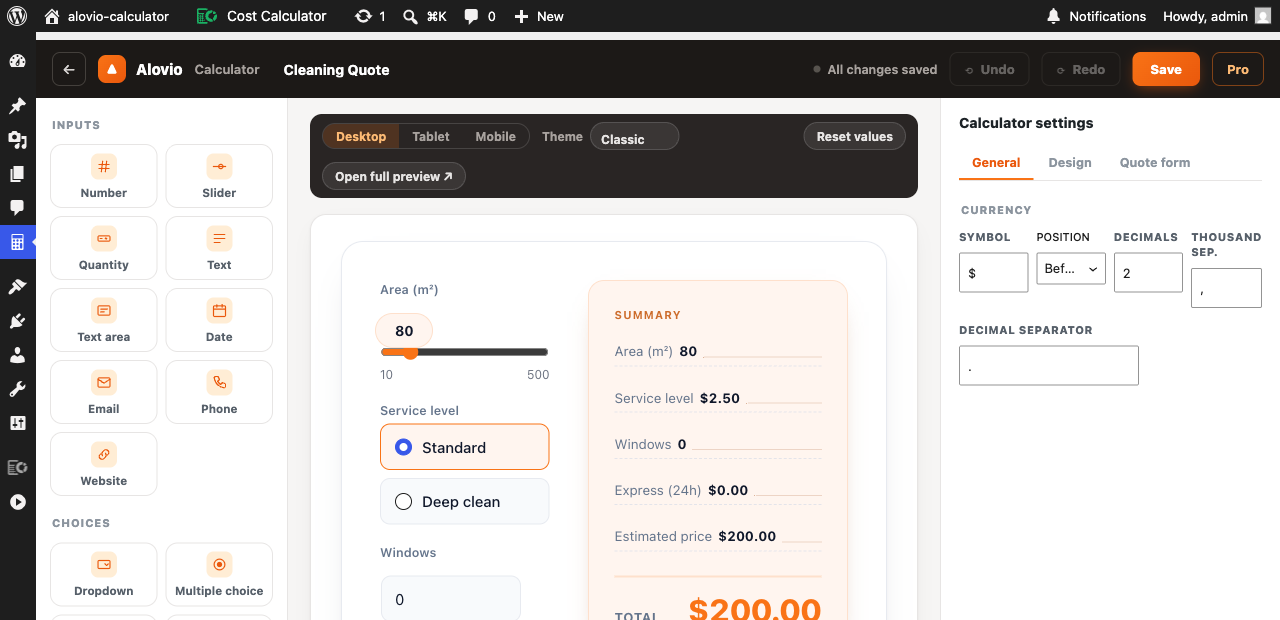
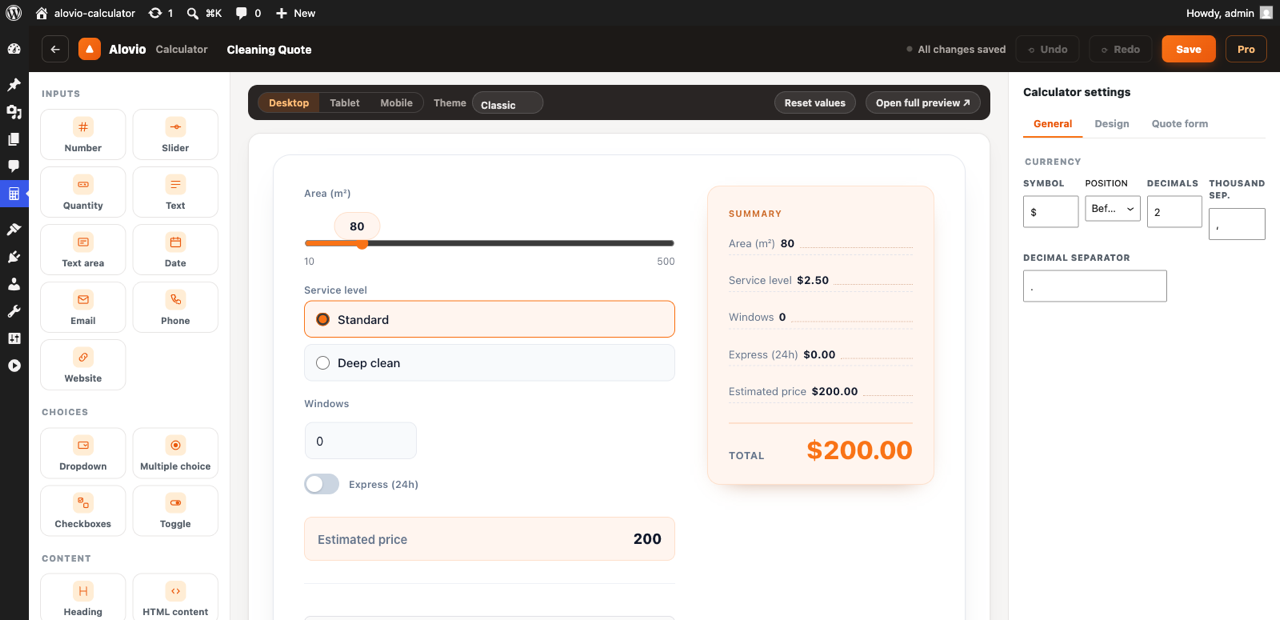
Canvas: restore native radio/checkbox appearance (wp-admin repainted them blue); re-shot screenshots 1/3

diff --git a/src/builder/builder.scss b/src/builder/builder.scss
@@ -161,7 +161,18 @@ body.alcb-builder-page #wpbody-content > .error { display: none; }
 }
 // Neutralise wp-admin form chrome inside the real fragment so it matches the site.
 .alcb-fragment select { max-width: none; min-height: 0; }
-.alcb-fragment input[type="checkbox"], .alcb-fragment input[type="radio"] { margin: 0; }
+.alcb-fragment input[type="checkbox"], .alcb-fragment input[type="radio"] {
+	margin: 0;
+	// wp-admin forms.css repaints these (appearance:none + blue :checked::before); restore the
+	// native controls the visitor sees, coloured by the calculator's own accent.
+	appearance: auto;
+	-webkit-appearance: auto;
+	border: 0; background: transparent; box-shadow: none;
+	inline-size: auto; block-size: auto;
+	accent-color: var(--alc-accent, #f97316);
+}
+.alcb-fragment input[type="checkbox"]:checked::before,
+.alcb-fragment input[type="radio"]:checked::before { content: none; }
 
 // ── 06 · Overlay: outline, ops toolbar, IF pill, error badge, insert line
 .alcb-overlay { position: absolute; inset: 26px 30px; pointer-events: none; } // matches .alcb-sheet padding